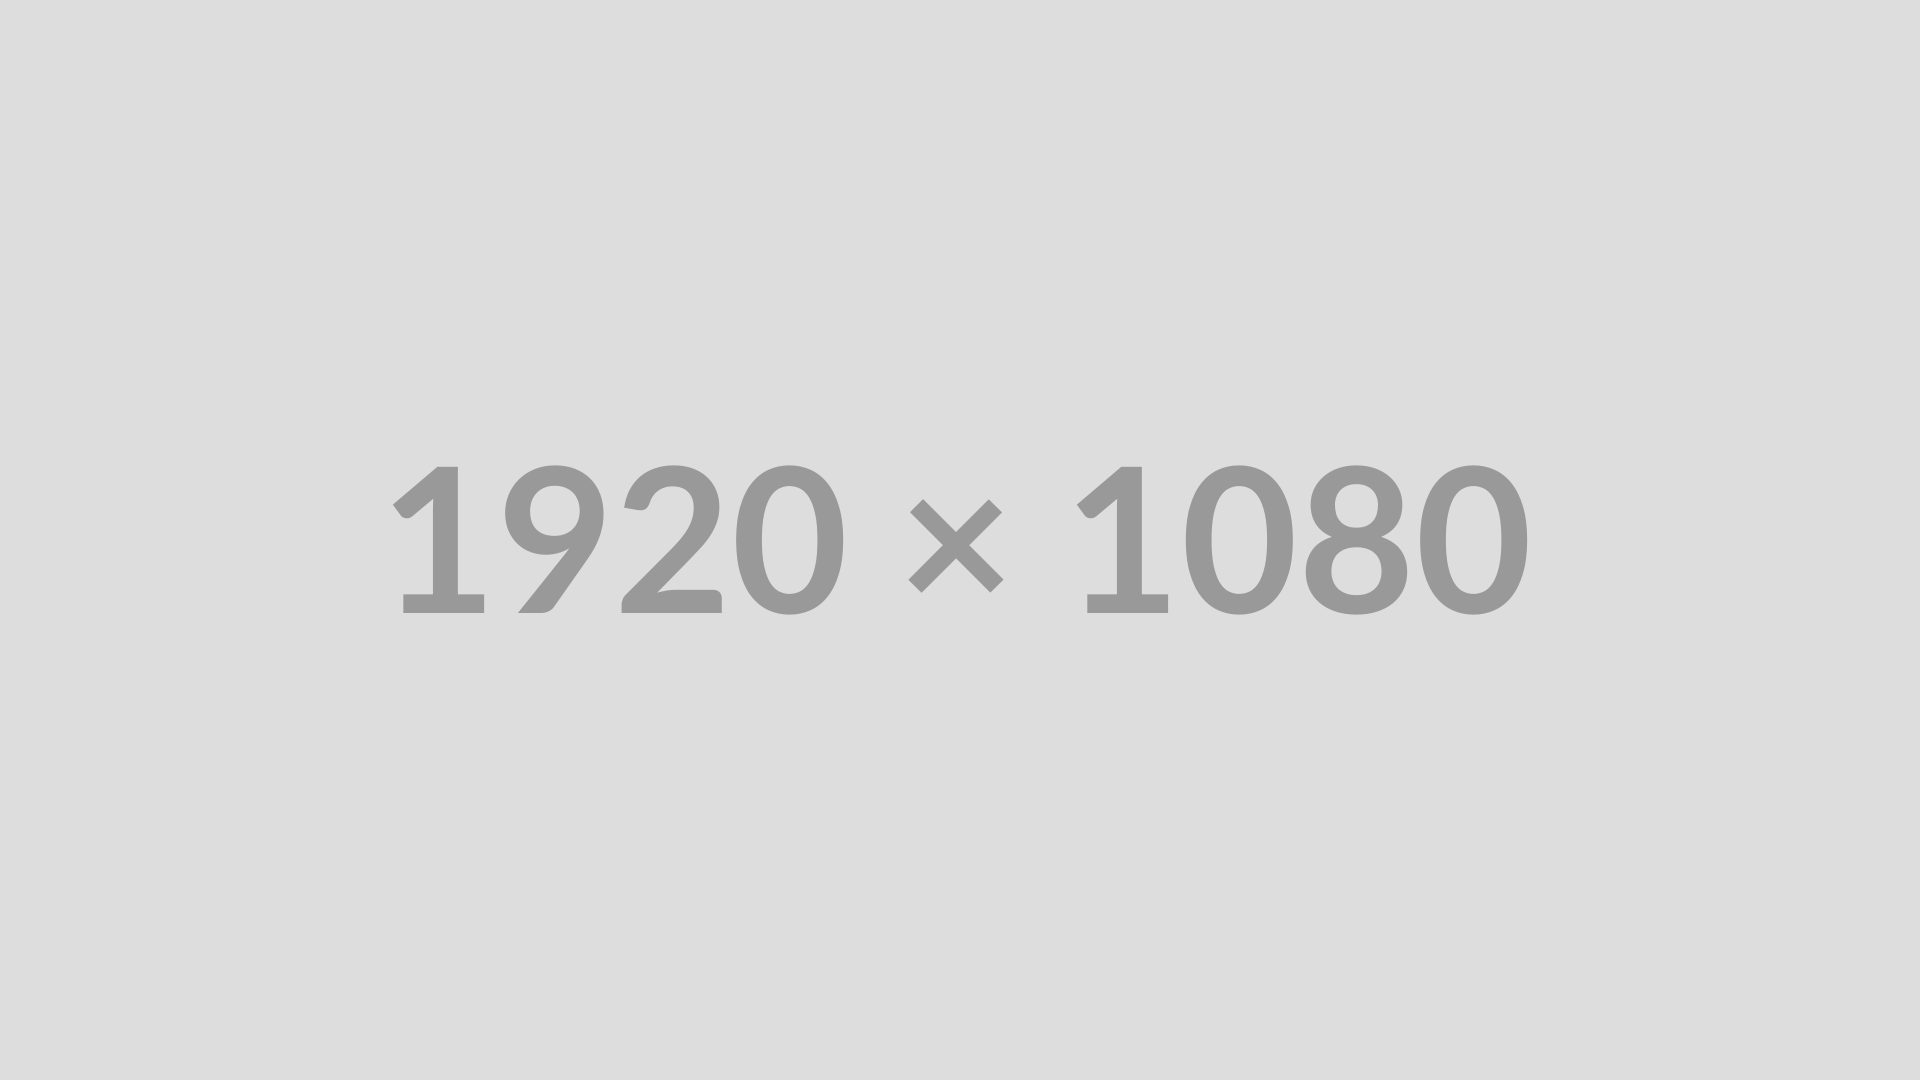
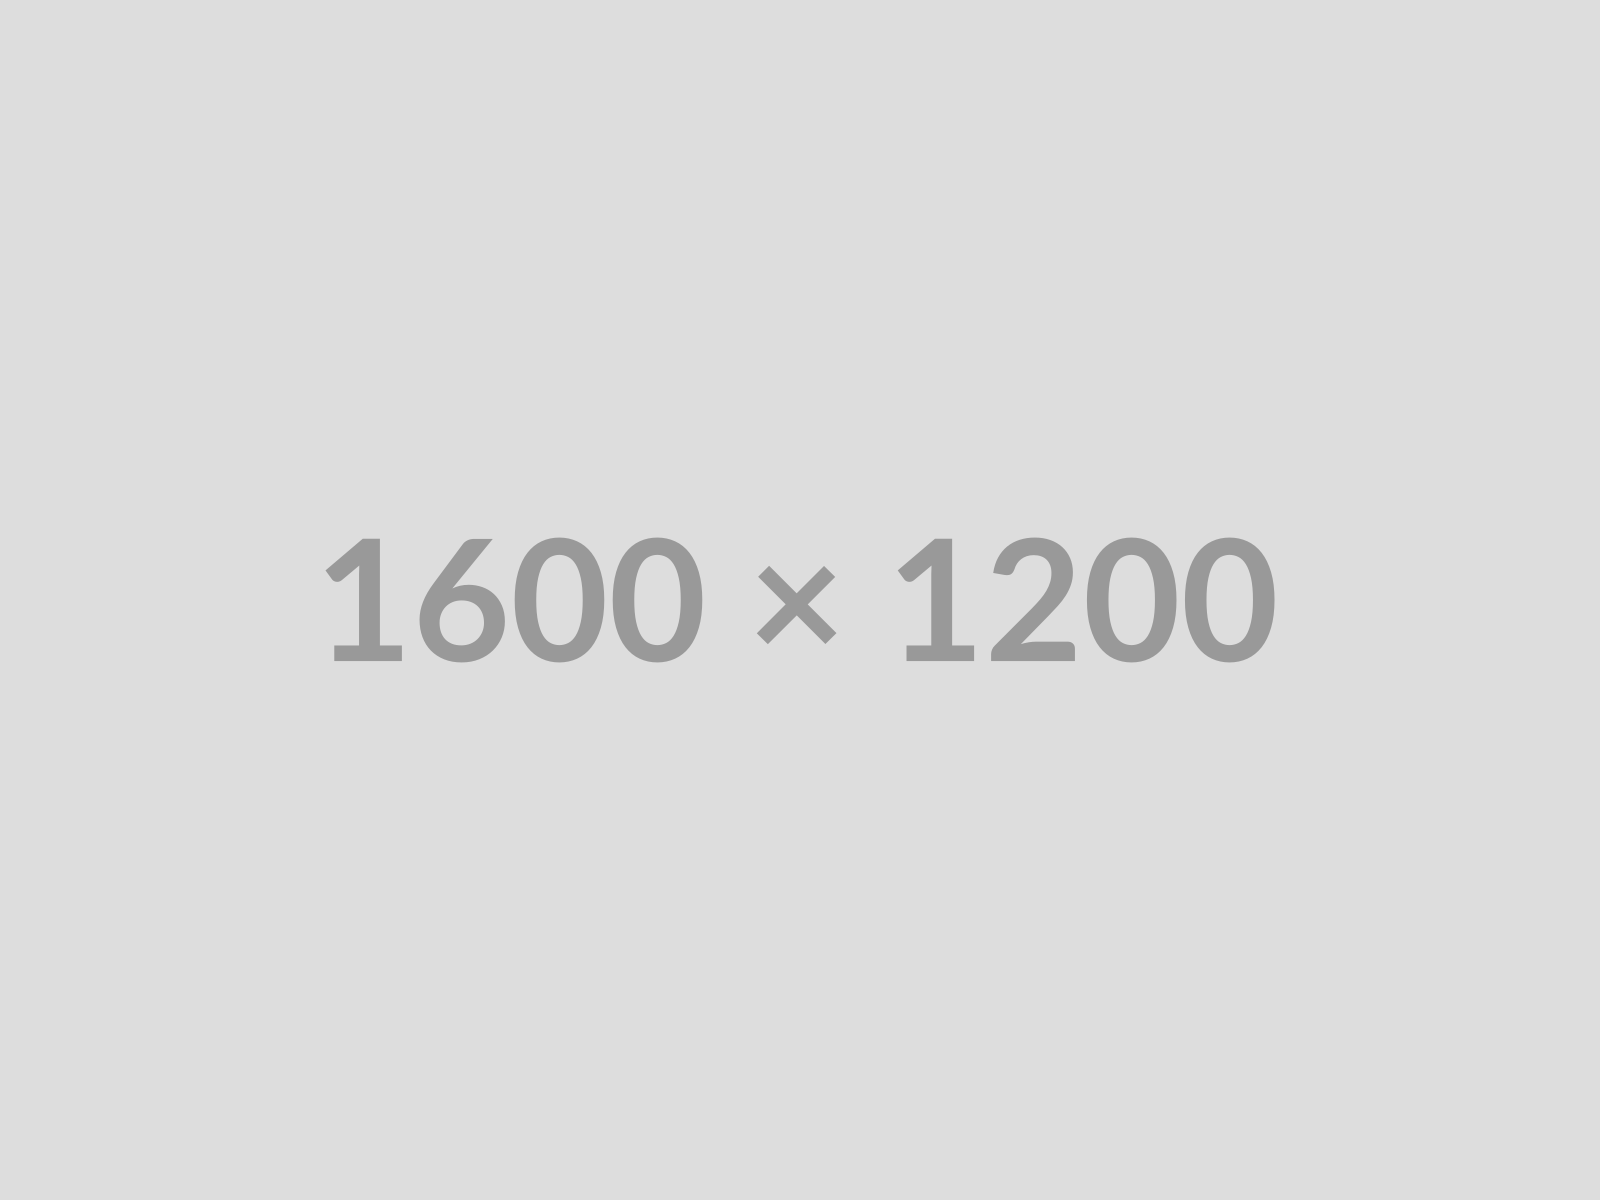
feat: change the proportions of the placeholder image in the hero section

diff --git a/components/Hero.jsx b/components/Hero.jsx
@@ -35,13 +35,13 @@ function Hero() {
           </Link>
         </div>
       </div>
-      <div className="md:w-1/2 sm:px-5 py-16 md:py-24 self-center">
+      <div className="md:w-1/2 sm:px-5 py-8 md:py-16 self-center">
         <div className="bg-border p-2 rounded-xl">
           <Image
             src="/screenshot.png"
             alt="MERNMail screenshot"
-            width={1920}
-            height={1080}
+            width={1600}
+            height={1200}
             className="w-full rounded-lg"
           />
         </div>
